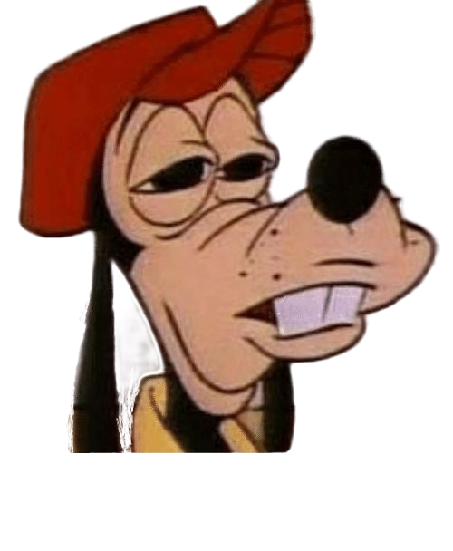
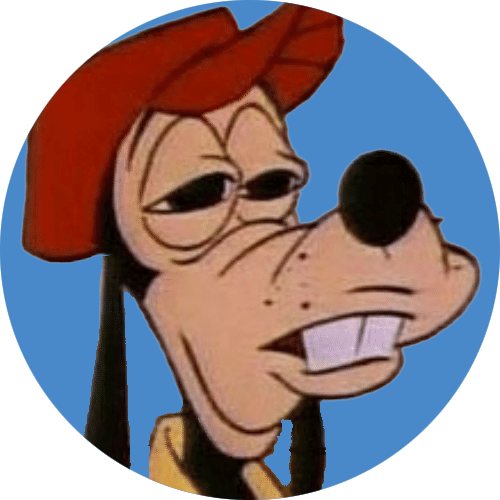
1ere Integration  des components

diff --git a/src/Placeholder.svelte b/src/Placeholder.svelte
@@ -1,7 +1,17 @@
 <script>
+  import DiGithubBadge from "svelte-icons/di/DiGithubBadge.svelte";
+
   import AlertModal from "./UI/AlertModal/AlertModal.svelte";
   import Collapse from "./UI/Collapse/Collapse.svelte";
-  import DiGithubBadge from "svelte-icons/di/DiGithubBadge.svelte";
+  import InputText from "./UI/inputText/InputText.svelte";
+  import Review from "./UI/Review/Review.svelte";
+  import Check from "./UI/checkBox/Check.svelte";
+  import Color from "./UI/Color/Color.svelte";
+  import Calc from "./UI/Calc/Calc.svelte";
+  import TabList from "./UI/Tab/TabList.svelte";
+  import Tab from "./UI/Tab/Tab.svelte";
+  import TabPanel from "./UI/Tab/TabPanel.svelte";
+  import Tabs from "./UI/Tab/Tabs.svelte";
   let btnTrigger = false;
 </script>
 
@@ -18,11 +28,9 @@
 <header>
   <div class="text">
     <h1>GoofyComponents</h1>
-    <h2>The Svelte Component Library</h2>
-    <h3>"AUUUGGHHHH"</h3>
+    <h2>The "AUUUGGHHHH" Svelte Component Library</h2>
   </div>
   <div class="icon">
-    <div class="circle" />
     <img src="/goofyicon.png" alt="Goofy" />
   </div>
 </header>
@@ -75,7 +83,23 @@
         document.getElementById("color").scrollIntoView();
       }}
     >
-      <p>Color</p>
+      <p>ColorPicker</p>
+    </div>
+    <div
+      on:click={(e) => {
+        e.preventDefault();
+        document.getElementById("textinput").scrollIntoView();
+      }}
+    >
+      <p>Text Input</p>
+    </div>
+    <div
+      on:click={(e) => {
+        e.preventDefault();
+        document.getElementById("checkbox").scrollIntoView();
+      }}
+    >
+      <p>Checkbox</p>
     </div>
   </nav>
 
@@ -89,6 +113,7 @@
         exercitationem sint asperiores, blanditiis accusantium iusto saepe
         repudiandae eaque officia dicta itaque.
       </p>
+      <p>Antoine</p>
     </div>
 
     <div class="compoZone">
@@ -96,7 +121,7 @@
         on:click={() => {
           btnTrigger = !btnTrigger;
         }}
-        class="alertModalBtn">Cliquez-moi</button
+        class="alertModalBtn">Cliquez-moi !</button
       >
       {#if btnTrigger}
         <AlertModal
@@ -146,7 +171,14 @@
       </p>
     </div>
 
-    <div class="compoZone" />
+    <div class="compoZone">
+      <Review
+        name={"Jean-Louis"}
+        rating={4}
+        src="/Louis.jpeg"
+        comments={"Le Restaurant sert un très bon Ricard. Le service est très bon. Le cadre est très bon. Le prix est très bon. Et la serveuse..."}
+      />
+    </div>
   </div>
   <div class="displayCompoContain" id="tabs">
     <div class="text">
@@ -160,7 +192,33 @@
       </p>
     </div>
 
-    <div class="compoZone" />
+    <div class="compoZone">
+      <Tabs>
+        <TabList>
+          <Tab>Nouveau vlog au japon</Tab>
+          <Tab>Le dernier VLOG + Video</Tab>
+        </TabList>
+        <TabPanel>
+          <p>
+            Lorem ipsum dolor sit amet consectetur adipisicing elit. Quisquam
+            voluptates, quae, quod, voluptas quibusdam voluptatibus quidem
+            voluptatum quos quia quas quod. Quisquam, quae. Quisquam, quae.
+            Quisquam, quae. Quisquam, quae.
+          </p>
+        </TabPanel>
+        <TabPanel>
+          <p>C'est mon dernier vlog</p>
+          <iframe
+            width="300"
+            height="200"
+            src="https://www.youtube.com/embed/hseE17LTYfc?start=60"
+            title="JAPON"
+            frameborder="0"
+            allowfullscreen
+          />
+        </TabPanel>
+      </Tabs>
+    </div>
   </div>
   <div class="displayCompoContain" id="calc">
     <div class="text">
@@ -174,11 +232,13 @@
       </p>
     </div>
 
-    <div class="compoZone" />
+    <div class="compoZone">
+      <Calc />
+    </div>
   </div>
   <div class="displayCompoContain" id="color">
     <div class="text">
-      <h4>Color</h4>
+      <h4>ColorPicker</h4>
       <p>Utilisation</p>
       <p>
         Lorem ipsum dolor sit amet consectetur, adipisicing elit. Distinctio
@@ -188,6 +248,40 @@
       </p>
     </div>
 
-    <div class="compoZone" />
+    <div class="compoZone">
+      <Color />
+    </div>
+  </div>
+  <div class="displayCompoContain" id="textinput">
+    <div class="text">
+      <h4>Text Input</h4>
+      <p>Utilisation</p>
+      <p>
+        Lorem ipsum dolor sit amet consectetur, adipisicing elit. Distinctio
+        atque error, quos corrupti enim qui deserunt veniam perferendis
+        exercitationem sint asperiores, blanditiis accusantium iusto saepe
+        repudiandae eaque officia dicta itaque.
+      </p>
+    </div>
+
+    <div class="compoZone">
+      <InputText placeholder={"entrez votre nom"} />
+    </div>
+  </div>
+  <div class="displayCompoContain" id="checkbox">
+    <div class="text">
+      <h4>Checkbox</h4>
+      <p>Utilisation</p>
+      <p>
+        Lorem ipsum dolor sit amet consectetur, adipisicing elit. Distinctio
+        atque error, quos corrupti enim qui deserunt veniam perferendis
+        exercitationem sint asperiores, blanditiis accusantium iusto saepe
+        repudiandae eaque officia dicta itaque.
+      </p>
+    </div>
+
+    <div class="compoZone">
+      <Check sentenceA={"Parfait !!!"} sentenceB={"Veuillez cocher la case "} />
+    </div>
   </div>
 </section>

diff --git a/src/app.css b/src/app.css
@@ -56,6 +56,7 @@ header {
 
 header > .text {
   margin: 1em;
+  margin-left: 5em;
 }
 
 header > .text > h1 {
@@ -75,10 +76,10 @@ header > .text > h3 {
 }
 
 header > .icon {
-  position: sticky;
+  position: absolute;
   z-index: 2;
   left: 60%;
-  top: 20%;
+  top: 25%;
 }
 
 header > .icon > .circle {
@@ -131,7 +132,7 @@ header > .icon > img {
 }
 
 .displayCompoContain {
-  height: 35vh;
+  min-height: 35vh;
   display: flex;
   justify-content: space-around;
   padding: 1em 2em;
@@ -147,11 +148,13 @@ header > .icon > img {
 
 .displayCompoContain > .compoZone {
   width: 55%;
+  height: auto;
   background-color: #006bd7;
   display: flex;
   align-items: center;
   justify-content: center;
   border-radius: 2em;
+  padding: 1em 1em;
 }
 .displayCompoContain > .compoZone > .alertModalBtn {
   font-size: 1.4em;

diff --git a/README.md b/README.md
@@ -1,48 +1,5 @@
-# Svelte + Vite
+# GoofyComponents
 
-This template should help get you started developing with Svelte in Vite.
+The "AUUUGGHHHH" Svelte Component Library
 
-## Recommended IDE Setup
-
-[VS Code](https://code.visualstudio.com/) + [Svelte](https://marketplace.visualstudio.com/items?itemName=svelte.svelte-vscode).
-
-## Need an official Svelte framework?
-
-Check out [SvelteKit](https://github.com/sveltejs/kit#readme), which is also powered by Vite. Deploy anywhere with its serverless-first approach and adapt to various platforms, with out of the box support for TypeScript, SCSS, and Less, and easily-added support for mdsvex, GraphQL, PostCSS, Tailwind CSS, and more.
-
-## Technical considerations
-
-**Why use this over SvelteKit?**
-
-- It brings its own routing solution which might not be preferable for some users.
-- It is first and foremost a framework that just happens to use Vite under the hood, not a Vite app.
-  `vite dev` and `vite build` wouldn't work in a SvelteKit environment, for example.
-
-This template contains as little as possible to get started with Vite + Svelte, while taking into account the developer experience with regards to HMR and intellisense. It demonstrates capabilities on par with the other `create-vite` templates and is a good starting point for beginners dipping their toes into a Vite + Svelte project.
-
-Should you later need the extended capabilities and extensibility provided by SvelteKit, the template has been structured similarly to SvelteKit so that it is easy to migrate.
-
-**Why `global.d.ts` instead of `compilerOptions.types` inside `jsconfig.json` or `tsconfig.json`?**
-
-Setting `compilerOptions.types` shuts out all other types not explicitly listed in the configuration. Using triple-slash references keeps the default TypeScript setting of accepting type information from the entire workspace, while also adding `svelte` and `vite/client` type information.
-
-**Why include `.vscode/extensions.json`?**
-
-Other templates indirectly recommend extensions via the README, but this file allows VS Code to prompt the user to install the recommended extension upon opening the project.
-
-**Why enable `checkJs` in the JS template?**
-
-It is likely that most cases of changing variable types in runtime are likely to be accidental, rather than deliberate. This provides advanced typechecking out of the box. Should you like to take advantage of the dynamically-typed nature of JavaScript, it is trivial to change the configuration.
-
-**Why is HMR not preserving my local component state?**
-
-HMR state preservation comes with a number of gotchas! It has been disabled by default in both `svelte-hmr` and `@sveltejs/vite-plugin-svelte` due to its often surprising behavior. You can read the details [here](https://github.com/rixo/svelte-hmr#svelte-hmr).
-
-If you have state that's important to retain within a component, consider creating an external store which would not be replaced by HMR.
-
-```js
-// store.js
-// An extremely simple external store
-import { writable } from 'svelte/store'
-export default writable(0)
-```
+[![Netlify Status](https://api.netlify.com/api/v1/badges/22f3c8ba-0421-4a74-bd2c-5805153b3fc7/deploy-status)](https://app.netlify.com/sites/goofycomponents/deploys)
